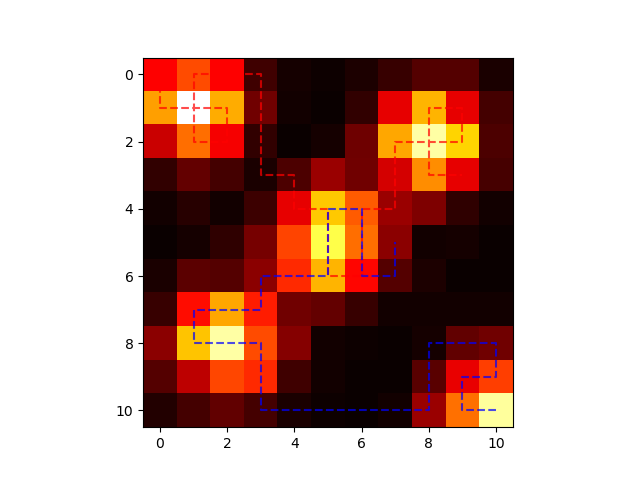
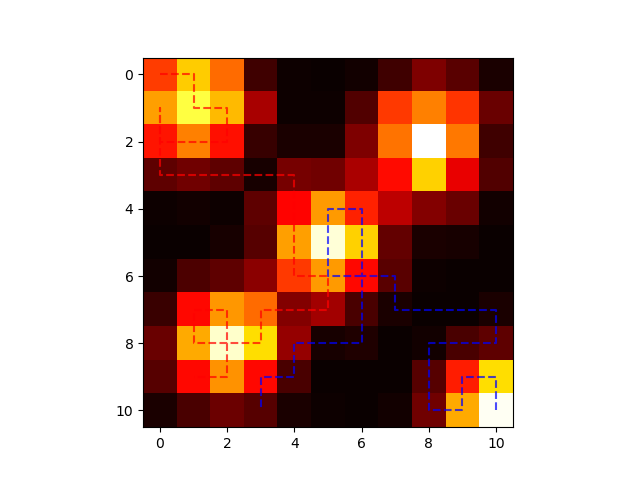
added some fixes to make it faster

diff --git a/src/rh_ma_vulcan.py b/src/rh_ma_vulcan.py
@@ -22,6 +22,7 @@ class MultiAgentSearchNode(object):
         self.parent = parent
         self.action_prefixes = agents_actions
         self.agent_locations = agent_locations
+        self.cached_h_values = {agent: {} for agent in agent_locations.keys()}
 
         self._g = np.float64(0.0)
         self._h = np.float64(0.0)
@@ -99,8 +100,12 @@ class MultiAgentVulcan(object):
             # Collect agents within communication range
             agent_bubbles = self.within_range_agents()
             # Command each agent to execute their adaptive search algorithm for one step
+
+            skip_agent = {agent.id: False for agent in self.agents}
             for idx, agent in enumerate(self.agents):
-                if len(agent_bubbles[idx]) > 1:
+                if (
+                    idx in agent_bubbles.keys() and len(agent_bubbles[idx]) > 1
+                ):  # uniqueness of the agent bubbles is required here!
                     # Start multi-agent search algorithm with respect to this agent
                     shared_observations = []
                     for agent_in_comm_range in agent_bubbles[idx]:
@@ -127,8 +132,22 @@ class MultiAgentVulcan(object):
                         horizon,
                         shared_observations,
                     )
+
                     assert best_action is not None
-                else:
+
+                    for agent_in_comm_range in agent_bubbles[idx]:
+                        if agent.id == agent_in_comm_range.id:
+                            agent_actions[agent_in_comm_range.id] = best_action[
+                                agent_in_comm_range.id
+                            ]
+                        else:
+                            if agent_in_comm_range.id not in agent_bubbles.keys():
+                                agent_actions[agent_in_comm_range.id] = best_action[
+                                    agent_in_comm_range.id
+                                ]
+                                skip_agent[agent_in_comm_range.id] = True
+
+                elif not skip_agent[agent.id]:
                     # Re-use vulcan for this single agent
                     horizon = min(
                         agent.planning_horizon, agent.mission_duration - self.timer
@@ -141,7 +160,9 @@ class MultiAgentVulcan(object):
                         deepcopy(agent.map),
                     )
 
-                agent_actions[agent.id] = best_action
+                    agent_actions[agent.id] = best_action
+
+            assert len(agent_actions) == len(self.agents)
 
             # Once we have extracted the best actions for each agent, we execute them
             for agent in self.agents:
@@ -154,7 +175,7 @@ class MultiAgentVulcan(object):
                 agent.timer += 1
             self.timer += 1
 
-    def within_range_agents(self) -> List[List[Agent]]:
+    def within_range_agents(self) -> Dict[int, List[Agent]]:
         """
         Returns a list of agents within communication range
         """
@@ -170,7 +191,19 @@ class MultiAgentVulcan(object):
                     < self.communication_range
                 ):
                     agent_bubbles[agent_i.id].append(agent_j)
-        return agent_bubbles
+
+            agent_bubbles[agent_i.id] = sorted(
+                agent_bubbles[agent_i.id], key=lambda x: x.id
+            )
+
+        unique_agent_bubbles = []
+        mapped_agent_bubbles = {}
+        for agent_idx, agent_bubble in enumerate(agent_bubbles):
+            if agent_bubble not in unique_agent_bubbles:
+                unique_agent_bubbles.append(agent_bubble)
+                mapped_agent_bubbles[agent_idx] = agent_bubble
+
+        return mapped_agent_bubbles
 
     def update_min_costs(self, node: MultiAgentSearchNode, reward: np.float64):
         node.g = reward
@@ -218,14 +251,30 @@ class MultiAgentVulcan(object):
 
             for agent_in_comm_range in agent_bubbles:
 
-                best_reward, _ = agent_in_comm_range.extract_action(
-                    agent_locations[agent_in_comm_range.id],
-                    node.timestep,
-                    planning_horizon - node.timestep,
-                    shared_observations,
-                    recursive_map_object,
-                )
-                node.h = np.add(node.h, best_reward)
+                dict_key = str(node.action_prefixes[agent_in_comm_range.id])
+                if (
+                    node.parent is not None
+                    and dict_key in node.parent.cached_h_values[agent_in_comm_range.id]
+                ):
+                    node.h = np.add(
+                        node.h,
+                        node.parent.cached_h_values[agent_in_comm_range.id][dict_key],
+                    )
+                else:
+                    best_reward, _ = agent_in_comm_range.extract_action(
+                        agent_locations[agent_in_comm_range.id],
+                        node.timestep,
+                        planning_horizon - node.timestep,
+                        shared_observations,
+                        recursive_map_object,
+                    )
+
+                    if node.parent is not None:
+                        node.parent.cached_h_values[agent_in_comm_range.id].update(
+                            {dict_key: best_reward}
+                        )
+
+                    node.h = np.add(node.h, best_reward)
 
         if parent is None:
             node.g = np.float64(0.0)
@@ -394,7 +443,7 @@ class MultiAgentVulcan(object):
         agent_bubbles: List[Agent],
         planning_horizon: int,
         shared_observations: List[Observation],
-    ) -> Tuple[np.float64, Union[Action, None]]:
+    ) -> Tuple[np.float64, Union[List[Action], None]]:
         """
         Performs the multi-agent search algorithm for a single agent assuming they are
         in communication range of other agents
@@ -417,7 +466,9 @@ class MultiAgentVulcan(object):
         open_set.put(root_node)
 
         best_gain = np.float64(0.0)
-        best_action = Action(ActionType.Wait, target_agent.current_location)
+        best_action = [
+            Action(ActionType.Wait, agent.current_location) for agent in agent_bubbles
+        ]
 
         while not open_set.empty():
             current = open_set.get()
@@ -430,11 +481,19 @@ class MultiAgentVulcan(object):
 
                 if current.g > best_gain:
                     best_gain = current.g
-                    best_action_str = current.action_prefixes[target_agent.id][0]
-                    best_action_location = target_agent.map.extract_next_location(
-                        target_agent.current_location, best_action_str
-                    )
-                    best_action = Action(best_action_str, best_action_location)
+                    best_action = []
+                    for agent_in_comm_range in agent_bubbles:
+                        best_action_str = current.action_prefixes[
+                            agent_in_comm_range.id
+                        ][0]
+                        best_action_location = (
+                            agent_in_comm_range.map.extract_next_location(
+                                agent_in_comm_range.current_location, best_action_str
+                            )
+                        )
+                        best_action.append(
+                            Action(best_action_str, best_action_location)
+                        )
                     self.update_min_costs(
                         current, best_gain
                     )  # TODO: Check the logic here again!

diff --git a/src/agent.py b/src/agent.py
@@ -29,6 +29,12 @@ class Agent(object):
         self.visited_locations = [start_location]
         self.mdp_handle = MarkovDecisionProcess(start_location, self.map)
 
+    def __eq__(self, __value: Agent) -> bool:
+        return self.id == __value.id
+
+    def __hash__(self) -> int:
+        return hash(self.id)
+
     def adaptive_search(self):
         """
         Performs the regular Vulcan adaptive search algorithm for a single agent assuming they are
@@ -44,7 +50,6 @@ class Agent(object):
                 self.mdp_handle.observations,
                 deepcopy(self.map),
             )
-            print(best_action)
             self.current_location = self.execute_action(best_action)
             self.mdp_handle.update(self.current_location, self.map)
             self.timer += 1
